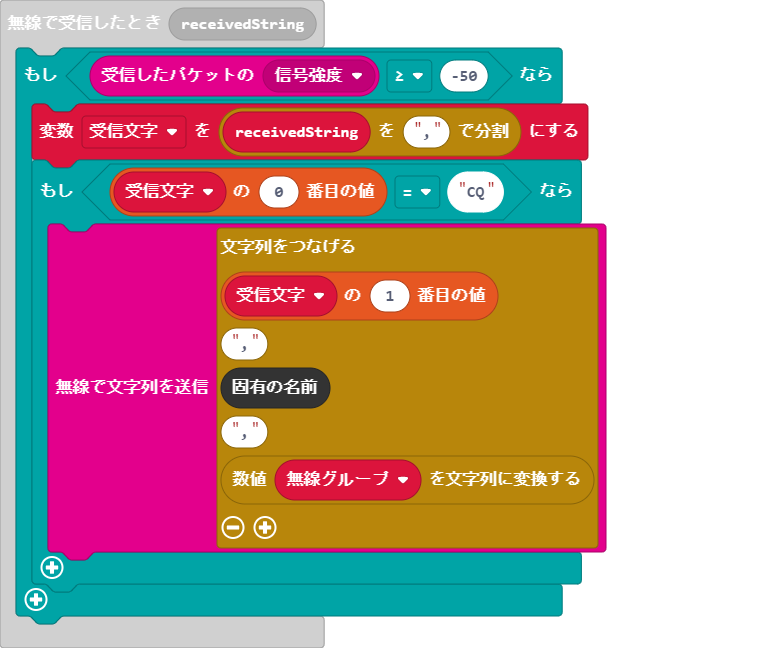
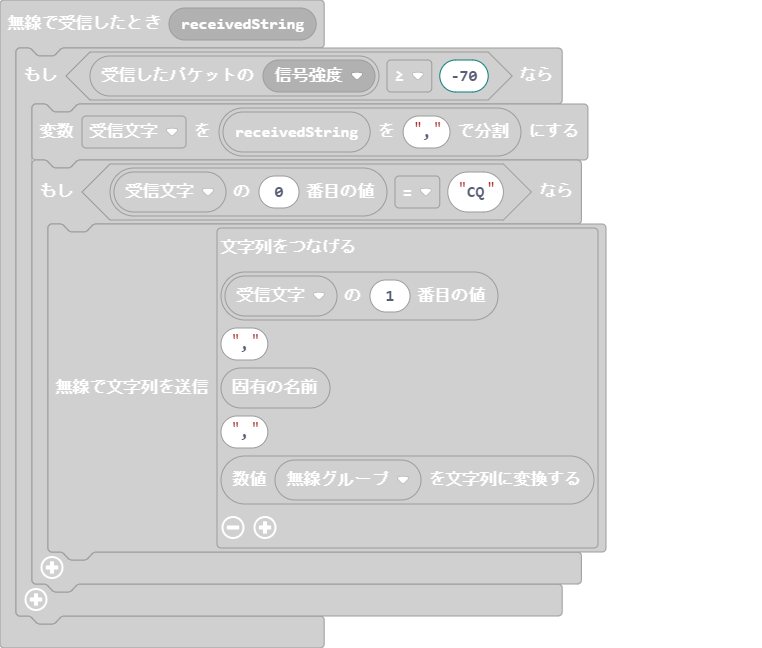
更新 main.blocks, main.ts

diff --git a/main.ts b/main.ts
@@ -1,5 +1,5 @@
 radio.onReceivedString(function (receivedString) {
-    if (radio.receivedPacket(RadioPacketProperty.SignalStrength) >= -50) {
+    if (radio.receivedPacket(RadioPacketProperty.SignalStrength) >= -70) {
         受信文字 = receivedString.split(",")
         if (受信文字[0] == "CQ") {
             radio.sendString("" + 受信文字[1] + "," + control.deviceName() + "," + convertToText(無線グループ))
